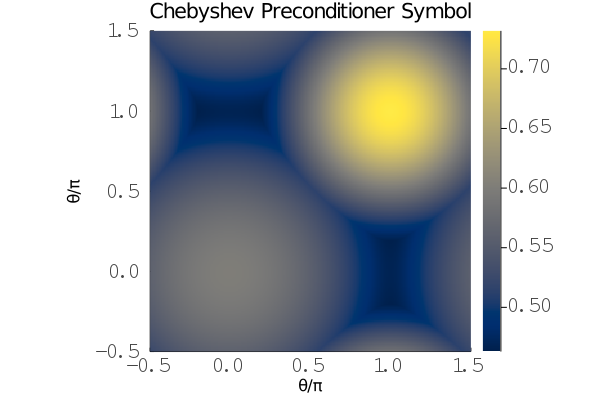
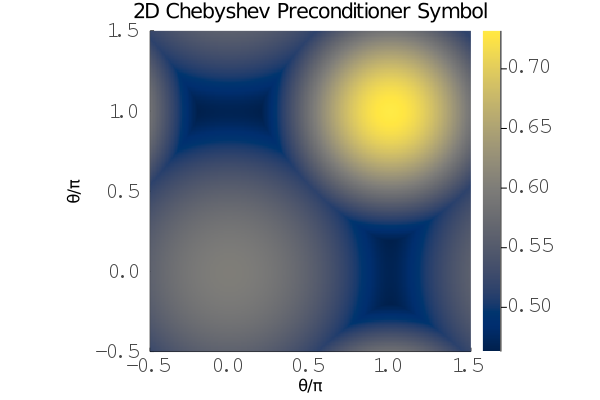
expand Chebyshev

Changed region(s): [[0.21, 0.0, 0.81, 0.06]]

diff --git a/source/03-LocalFourierAnalysis/02-smoothers.tex b/source/03-LocalFourierAnalysis/02-smoothers.tex
@@ -20,31 +20,92 @@ where $\nu$ is the number of smoothing passes and $\omega$ is the weighting para
 \label{def:jacobi_symbol}
 \end{definition}
 
-\begin{figure}[!tbp]
+\begin{figure}[!ht]
   \centering
-  \subfloat[Spectrum of Jacobi for $p = 4$]{\includegraphics[width=0.48\textwidth]{../img/JacobiSymbol1D}\label{fig:jacobi_spectrum_1d}}
+  \subfloat[Spectrum of 1D Jacobi for $p = 4$]{\includegraphics[width=0.48\textwidth]{../img/JacobiSymbol1D}\label{fig:jacobi_spectrum_1d}}
   \hfill
-  \subfloat[Spectrum of Scalar Diffusion for $p = 4$]{\includegraphics[width=0.48\textwidth]{../img/JacobiSymbol2D}\label{fig:jacobi_spectrum_2d}}
+  \subfloat[Spectrum of 2D Jacobi for $p = 4$]{\includegraphics[width=0.48\textwidth]{../img/JacobiSymbol2D}\label{fig:jacobi_spectrum_2d}}
   \caption{Spectrum of Jacobi Preconditioner Symbol}
 \end{figure}
 
 Using Definition \ref{def:jacobi_symbol}, in Figures \ref{fig:jacobi_spectrum_1d} and \ref{fig:jacobi_spectrum_2d}, we see the spectral radius of the symbol of unweighted Jacobi preconditioning for the scalar diffusion operator with a fourth-order H1 Lagrange finite element basis on the Gauss-Lobatto points in one and two dimensions.
+In Figure \ref{fig:jacobi_spectrum_1d}, we see that the unweighted Jacobi still has a spectral radius greater than $1.0$; this spectral radius can be improved by changing the weighting factor, $\omega$.
 
-TODO: INSERT DISCUSSION OF EFFECT OF WEIGHTING FACTOR
+\begin{figure}[!ht]
+  \centering
+  \subfloat[Spectal Radius of Weighted Jacobi for $p = 4$]{\includegraphics[width=0.48\textwidth]{../img/weightedJacobiSymbol1D}\label{fig:weighted_jacobi_radius_1d}}
+  \hfill
+  \subfloat[Spectral Radius of Weighted Jacobi for $p = 4$]{\includegraphics[width=0.48\textwidth]{../img/weightedJacobiSymbol2D}\label{fig:weighted_jacobi_radius_2d}}
+  \caption{Spectral Radius of Weighted Jacobi Preconditioner Symbol}
+\end{figure}
+
+In Figures \ref{fig:weighted_jacobi_radius_1d} and \ref{fig:weighted_jacobi_radius_2d}, we see the spectral radius of the symbol of weighted Jacobi preconditioning for the scalar diffusion operator with a fourth-order H1 Lagrange finite element basis on the Gauss-Lobatto points in one and two dimensions as a function of the weighting parameter, $\omega$.
+In one dimension, the optimal smoothing parameter is approximately $\omega \approx 0.86$, while in two dimensions the optimal smoothing parameter is approximately $\omega \approx 1.0$.
+Both figures indicate that underestimating the optimal smoothing parameter has a relatively mild effect compared to the increase in the spectral radius of the symbol from overestimating the optimal smoothing parameter.
+
+As discussed in \cite{he2020two}, the classical optimal smoothing parameter is given by
+\begin{equation}
+\omega = \frac{2}{\lambda_{\text{min}, H} + \lambda_{\text{max}, H}}
+\end{equation}
+for weighted Jacobi, where $H$ indicates the high frequency range.
+Unfortunately, as noted by \cite{he2020two}, this optimal smoothing parameter does not result in optimal two-grid convergence.
+He and MacLachlan observed this discrepancy for h-multigrid on uniformly spaced nodes, but we will also observe this discrepancy for p-multigrid.
 
 % -- Chebyshev ----------------------------------------------------------------
 \subsection{Chebyshev}
 
 It is well known that polynomial smoothers allow more aggressive coarsening than Jacobi \cite{brannick2015polynomial}.
+For further discussion of the error propagation properties of the Chebyshev semi-iterative method, see \cite{gutknecht2002revisited}.
 
-TODO: INSERT DERIVATION
+The residual in the Chebyshev semi-iterative method can be modeled by the three term recurrence
+\begin{equation}
+\mathbf{e}_{n + 1} = \left( {\color{burgundy}\mathbf{A}} \mathbf{e}_n - \alpha \mathbf{e}_n - \beta_{n - 1} \mathbf{e}_{n - 1} \right) / \gamma_n
+\label{eq:chebyshev_recursive}
+\end{equation}
+where the spectrum of ${\color{burgundy}\mathbf{A}}$ lies on the line segment $\left[ \alpha - c, \alpha + c \right]$ and the parameters $\beta$ and $\gamma$ are given by the recurrence
+\begin{equation}
+\begin{tabular}{c c}
+$\beta_0 = - \frac{c^2}{2 \alpha}$ & $\gamma_0 = - \alpha$\\
+$\beta_n = \frac{c}{2} \frac{T_n \left( \eta \right)}{T_{n + 1} \left( \eta \right)} = \left( \frac{c}{2} \right)^2 \frac{1}{\gamma_n}$ & $\gamma_n = \frac{c}{2} \frac{T_{n + 1} \left( \eta \right)}{T_n \left( \eta \right)} = - \left( \alpha + \beta_{n - 1} \right)$
+\end{tabular}
+\end{equation}
+where $T_i \left( \zeta \right) = 2 \zeta T_{i - 1} \left( \zeta \right) - T_{i - 2} \left( \zeta \right)$ are the classical Chebyshev polynomials and $\eta = - \alpha / c$.
 
-\begin{figure}[!tbp]
+In a similar fashion to the discussion in \cite{adams2003parallel}, we use the Jacobi preconditioned operator, $\diag \left({\color{burgundy}\mathbf{A}}\right)^{-1} {\color{burgundy}\mathbf{A}}$, in this iteration in place of ${\color{burgundy}\mathbf{A}}$.
+Using this fact and the recurrence give in Equation \ref{eq:chebyshev_recursive}, we can define the error propagation of the $n$th order Chebyshev smoother in terms of the error in the first term:
+\begin{equation}
+\begin{tabular}{c}
+$\mathbf{E}_0 = \mathbf{I}$\\
+$\mathbf{E}_1 = \mathbf{I} - \alpha \diag \left( {\color{burgundy}\mathbf{A}} \right)^{-1} {\color{burgundy}\mathbf{A}}$\\
+$\mathbf{E}_n = \left( \alpha \mathbf{E}_{n - 1} + \beta_n \mathbf{E}_{n - 2} - \diag \left( {\color{burgundy}\mathbf{A}} \right)^{-1} {\color{burgundy}\mathbf{A}} \mathbf{E}_{n - 2} \right) / \gamma_{n - 1}$
+\end{tabular}
+\label{eq:chebyshev_error_propagation}
+\end{equation}
+With this recursive definition of the error propagation, we can define the symbol for Chebyshev smoothing.
+
+\begin{definition}
+The symbol of the error propagation operator for $n$th order Chebyshev smoothing based on the Jacobi preconditioned operator is given by
+\begin{equation}
+\tilde{{\color{burgundy}\mathbf{S}}} \left( \nu, n, \theta \right) = \left( \mathbf{Q}^T \left( \mathbf{E}_{n, e} \odot \left[ e^{\imath \sum_d \left( \mathbf{x}_i - \mathbf{x}_j \right) \mathbf{\theta} / \mathbf{h}} \right] \right) \mathbf{Q} \right)^\nu,
+\end{equation}
+where $\nu$ is the number of smoothing passes and $\mathbf{E}_n$ is given by the recursive definition
+\begin{equation}
+\begin{tabular}{c}
+$\mathbf{E}_{0, e} = \mathbf{I}$\\
+$\mathbf{E}_{1, e} = \mathbf{I} - \alpha \diag \left( {\color{burgundy}\mathbf{A}}_e \right)^{-1} {\color{burgundy}\mathbf{A}}_e$\\
+$\mathbf{E}_{n, e} = \left( \alpha \mathbf{E}_{n - 1, e} + \beta_n \mathbf{E}_{n - 2, e} - \diag \left( {\color{burgundy}\mathbf{A}}_e \right)^{-1} {\color{burgundy}\mathbf{A}}_e \mathbf{E}_{n - 2, e} \right) / \gamma_{n - 1}$
+\end{tabular}
+\end{equation}
+\label{def:chebyshev_symbol}
+\end{definition}
+
+\begin{figure}[!ht]
   \centering
-  \subfloat[Spectrum of Chebyshev for $p = 4$]{\includegraphics[width=0.48\textwidth]{../img/ChebyshevSymbol1D}\label{fig:chebyshev_spectrum_1d}}
+  \subfloat[Spectrum of 1D Chebyshev for $p = 4$]{\includegraphics[width=0.48\textwidth]{../img/ChebyshevSymbol1D}\label{fig:chebyshev_spectrum_1d}}
   \hfill
-  \subfloat[Spectrum of Scalar Diffusion for $p = 4$]{\includegraphics[width=0.48\textwidth]{../img/ChebyshevSymbol2D}\label{fig:chebyshev_spectrum_2d}}
+  \subfloat[Spectrum of 2D Chebyshev for $p = 4$]{\includegraphics[width=0.48\textwidth]{../img/ChebyshevSymbol2D}\label{fig:chebyshev_spectrum_2d}}
   \caption{Spectrum of Chebyshev Preconditioner Symbol}
 \end{figure}
 
 Using Definition \ref{def:chebyshev_symbol}, in Figures \ref{fig:chebyshev_spectrum_1d} and \ref{fig:chebyshev_spectrum_2d}, we see the spectral radius of the symbol of third order Chebyshev polynomial preconditioning for the scalar diffusion operator with a fourth-order H1 Lagrange finite element basis on the Gauss-Lobatto points in one and two dimensions.
+When compared to Figures \ref{fig:jacobi_spectrum_1d} and \ref{fig:jacobi_spectrum_2d}, we can see that smoothing based upon Chebyshev semi-iterative offers better error reduction than weighted or unweighted Jacobi, albeit at a higher computational cost.

diff --git a/source/02-HighOrderFEM/03-notation.tex b/source/02-HighOrderFEM/03-notation.tex
@@ -104,7 +104,7 @@ The action of an arbitrary second-order finite element operator can be represent
 
 where $\mathbf{P}$ represents the parallel communication portion of the global element restriction operator, $\mathbf{G}$ represents the device portion of the global element restriction operator, ${\color{blue(ncs)}\mathbf{B}}$ represents the basis action kernel that provides solution values and derivatives at the quadrature points, and ${\color{applegreen}\mathbf{D}}$ represents the pointwise representation of the weak form, given by $f_i$ or $f_{i, j}$ and the element quadrature weights and geometric factors.
 
-\begin{figure}[h!]
+\begin{figure}[ht!]
 \includegraphics[width=.99\linewidth]{../img/libCEEDAPI}
 \caption{libCEED API}
 \label{fig:libceedapi}

diff --git a/source/02-HighOrderFEM/01-why.tex b/source/02-HighOrderFEM/01-why.tex
@@ -38,7 +38,7 @@ As discussed in McCalpin's Supercomputing 2016 invited talk \cite{mccalpin2016me
 This means that FLOPs have improved approximately twice as much as memory and network bandwidth over the last thirty years.
 This problem is exacerbated by network latency, which is decreasing at a rate of approximately 20\% per year, and memory latency, which is \textit{increasing} at a rate of approximately 20\% per year.
 
-\begin{figure}[h!]
+\begin{figure}[ht!]
 \begin{subfigure}{.49\textwidth}
 \includegraphics[width=.99\linewidth]{../img/peakFlopsAndBandwidth}
 \caption{Peak FLOPs and Bandwidth}

diff --git a/source/03-LocalFourierAnalysis/01-highorder.tex b/source/03-LocalFourierAnalysis/01-highorder.tex
@@ -98,7 +98,7 @@ This representation is used in LFAToolkit.jl, where the users provide the finite
 
 As we develop LFA of various preconditioners and smoothers in this notation throughout this chapter, we will the standard test problem of the scalar diffusion operator to illustrate the properties of this analysis for these techniques.
 
-\begin{figure}[!tbp]
+\begin{figure}[!h]
   \centering
   \subfloat[Spectrum of Scalar Diffusion for $p = 4$]{\includegraphics[width=0.48\textwidth]{../img/diffusionSymbol1D}\label{fig:diffusion_spectrum_1d}}
   \hfill
